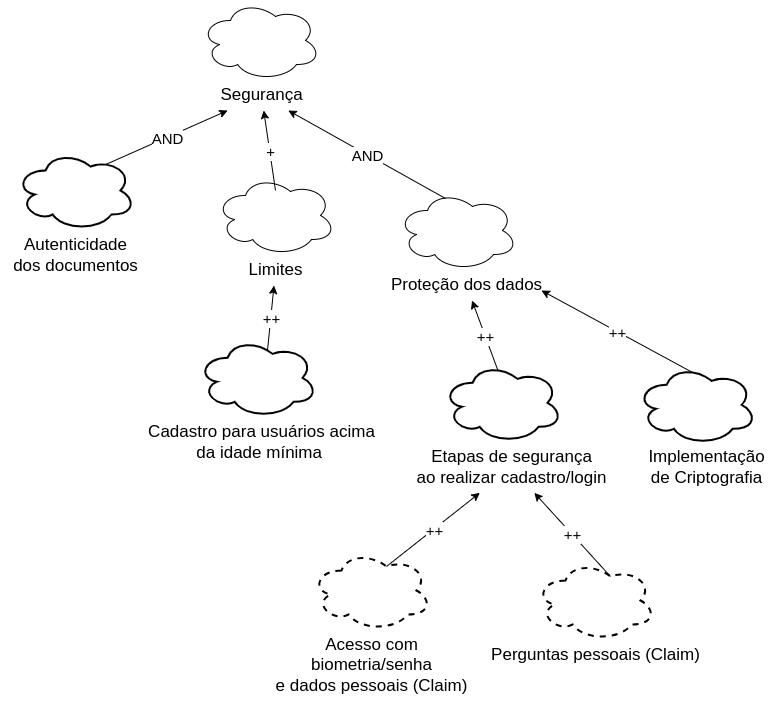
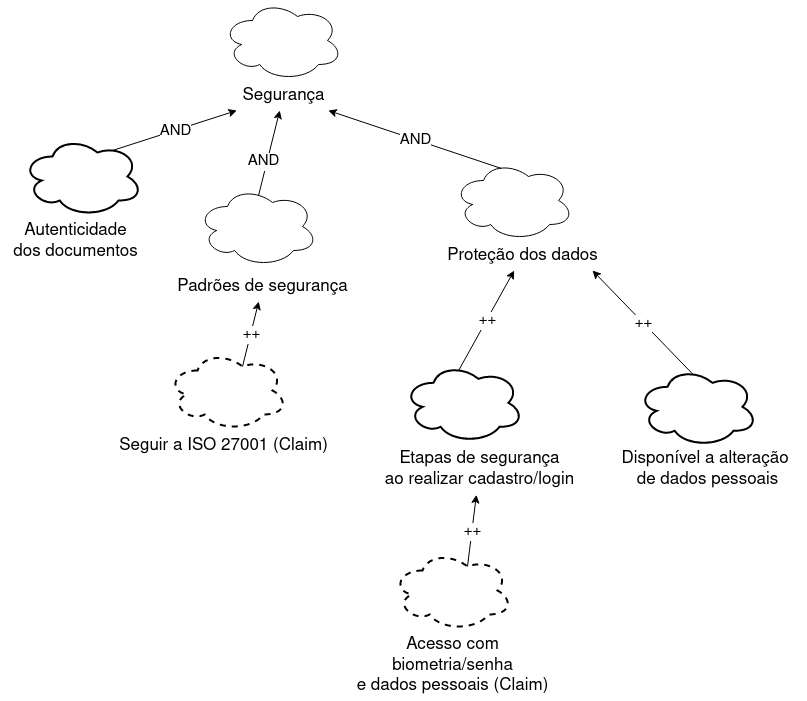
[FIX]: correcoes em nfr

diff --git a/docs/modelagem/agil/nfr.md b/docs/modelagem/agil/nfr.md
@@ -142,7 +142,28 @@ Fonte: Adaptado de (ROBERTSON; ROBERTSON, 2012).
 
 ## Metodologia
 
-Inicialmente foram selecionados os requisitos não funcionais já elicitados para que os softgoals principais sejam definidos, esses foram utilizados no NFR00 - Geral, e logo após foram criados os NFRs com base no geral, além dos impactos deles e no final de cada NFR foram criados os Cartões de especificação. No desenvolvimento dos NFRs envolveu a criação do gráfico de interdependência de softgoal conhecido como "Softgoal Interdependency Graph (SIG)" por meio da ferramenta Draw.io.
+Inicialmente foram selecionados os requisitos não funcionais já elicitados e presentes no artefato Especificação Suplementar, para que os softgoals principais sejam definidos, esses foram utilizados no NFR00 - Geral, e logo após foram criados os NFRs com base no geral, além dos impactos deles e no final foram criados os Cartões de especificação. No desenvolvimento dos NFRs envolveu a criação do gráfico de interdependência de softgoal conhecido como "Softgoal Interdependency Graph (SIG)" por meio da ferramenta Draw.io.
+
+## Requisitos Não-Funcionais utilizados
+
+
+<center>
+
+Tabela 9 - Requisitos Não-Funcionais 
+
+| ID | Descrição    | 
+| -- | --- | 
+| CONF01 |  Garantir 99,9% de disponibilidade de tempo, principalmente durante períodos eleitorais, evitando interrupções não programadas.| 
+| CONF02 | Implementar backups regulares e procedimentos de recuperação eficazes para evitar perda significativa de dados em falhas inesperadas. |
+| DES01 | Manter um tempo de resposta inferior a 2 segundos para interações do usuário, assegurando uma experiência ágil. |
+| SUP03 | No sistema deve haver um plano de suporte ao usuário para responder a dúvidas e problemas de forma eficaz. |
+| CONF03 | O aplicativo deve oferecer segurança ao usuário, com a proteção nos dados, utilizando etapas de segurança, como por exemplo: login por meio da biometria digital. | 
+| CONF04 | O usuário deve poder alterar os seus dados pessoais caso desejar. |
+| CONF05 | O aplicativo deve oferecer segurança ao usuário, em relação aos dados emitidos nos documentos, certificando e garantindo que estão corretos. |
+
+Fonte: BARBOSA, maria. 2023. 
+
+</center>
 
 ## NFRs Definidas
 
@@ -185,39 +206,58 @@ Fonte: Maria Eduarda Marques. 2023.
 ### NFR02 - Confiabilidade
 #### Sem impactos propagados
 
+<center>
+
 Figura 9 - SIG de Confiabilidade sem impactos.
 
 ![confGrafoSIG1](../../planejamento/img/confGrafoSIG1.png)
 
-Fonte: maria barbosa, 2023.
+Fonte: BARBOSA, maria. 2023.
+
+</center>
+
 
 #### Com impactos propagados
+
+<center>
 
 Figura 10 - SIG de Confiabilidade com impactos.
 
 ![confGrafoSIG2](../../planejamento/img/confGrafoSIG2.png)
 
-Fonte: maria barbosa, 2023.
+Fonte: BARBOSA, maria. 2023.
+
+</center>
 
 
 ### NFR03 - Segurança
 #### Sem impactos propagados
 
+<center>
+
 Figura 11 - SIG de Segurança sem impactos.
 
 ![seguGrafoSIG1](../../planejamento/img/seguGrafoSIG1.png)
 
-Fonte: maria barbosa, 2023.
+Fonte: BARBOSA, maria. 2023.
+
+</center>
 
 #### Com impactos propagados
+
+<center>
 
 Figura 12 - SIG de Segurança com impactos.
 
 ![seguGrafoSIG2](../../planejamento/img/seguGrafoSIG2.png)
 
-Fonte: maria barbosa, 2023.
+Fonte: BARBOSA, maria. 2023.
+
+</center>
 
 ## Cartões de especificação Definidos
+
+<center>
 
 Tabela 3 - Cartão de especificação da Usabilidade
 
@@ -234,6 +274,10 @@ Tabela 3 - Cartão de especificação da Usabilidade
 
 Fonte: Maria Eduarda Marques. 2023.
 
+</center>
+
+<center>
+
 Tabela 4 - Cartão de especificação da Usabilidade
 
 | **Nº Requisito: 2** (ENTNF2)  <br> **Classificação:** Usabilidade | |
@@ -249,79 +293,27 @@ Tabela 4 - Cartão de especificação da Usabilidade
 
 Fonte: Maria Eduarda Marques. 2023.
 
+</center>
+
+<center>
+
 Tabela 5 - Cartão de especificação de Confiabilidade 
 
-| **Nº Requisito: 3** ( [ENTNF1](https://github.com/Requisitos-de-Software/2023.2-e-Titulo/blob/main/docs/elicitacao/tecnicas/entrevista.md#requisitos-elicitados) )  <br> **Classificação:**  Confiabilidade/Guia/Tolerância a falhas/Informações de fácil acesso/Coletar feedback | |
+| **Nº Requisito: 3** (  )  <br> **Classificação:**   | |
 | ------------------------ | --------- |
-| **Descrição:** | O aplicativo deve oferecer o termo de uso de forma fácil de ser encontrado, além de explicar ao usuário a sua utilidade de modo a evitar problemas de entendimento a respeito de informações do aplicativo. |
-| **Justificativa:** | É importante pois fornece informações claras e acessíveis aos usuários, garantindo que eles compreendam os termos e condições do serviço, bem como os direitos e responsabilidades. Além disso, atende às expectativas de regulamentações de privacidade e proteção de dados, tornando o aplicativo mais confiável. |
-| **Origem:** | Projetista de Software |
-| **Critério de aceitação:** | A aceitação dos termos de uso  |
+| **Descrição:** |  |
+| **Justificativa:** | |
+| **Origem:** |  |
+| **Critério de aceitação:** | |
 | **Dependência:** | Nenhum |
-| **Prioridade:** | 10 |
+| **Prioridade:** |  |
 | **Conflitos:** | Nenhum |
-| **História:** | 06/11/2023 |
+| **História:** | /11/2023 |
 
-Fonte: maria barbosa, 2023.
+Fonte: BARBOSA, maria. 2023.
 
-Tabela 6 - Cartão de especificação de Segurança 
+</center>
 
-| **Nº Requisito: 4** ( [INTNF9](https://github.com/Requisitos-de-Software/2023.2-e-Titulo/blob/main/docs/elicitacao/tecnicas/introspeccao.md#requisitos-elicitados) )  <br> **Classificação:** Segurança/Autenticidade dos documentos | |
-| ------------------------ | --------- |
-| **Descrição:** | O aplicativo deve mostrar ao usuário as autenticidades de seus documento. |
-| **Justificativa:** | Mostrar ao usuário as autenticidades de seus documentos é justificada pela necessidade de promover a transparência, confiança e segurança no sistema. Isso permite que os usuários validem a autenticidade de seus documentos, evitando fraudes, falsificações e erros.  |
-| **Origem:** | Projetista de Software |
-| **Critério de aceitação:** | Deve ser possível acessar facilmente as autenticidades, e elas devem estar em conformidade com as regulamentações legais aplicáveis. |
-| **Dependência:** | Nenhum |
-| **Prioridade:** | 10 |
-| **Conflitos:** | Nenhum |
-| **História:** | 06/11/2023 |
-
-Fonte: maria barbosa, 2023.
-
-Tabela 7 - Cartão de especificação de Segurança  
-
-| **Nº Requisito: 5** ( [INTNF14](https://github.com/Requisitos-de-Software/2023.2-e-Titulo/blob/main/docs/elicitacao/tecnicas/introspeccao.md#requisitos-elicitados) )  <br> **Classificação:** Segurança/Proteção dos dados/Etapas de segurança ao realizar cadastro ou login/ Implementação de Criptografia | |
-| ------------------------ | --------- |
-| **Descrição:** | O aplicativo deve oferecer segurança ao usuário, com a proteção nos dados, utilizando etapas de segurança. |
-| **Justificativa:** | A utilização desse requisito é pela necessidade de proteger a privacidade e a integridade dos dados dos usuários. Isso não apenas atende às regulamentações legais, mas também previne ataques cibernéticos, vazamentos de dados e a perda de segurança dos usuários. |
-| **Origem:** | Projetista de Software |
-| **Critério de aceitação:** | O deve aplicativo implementar medidas de segurança eficazes para proteger os dados dos usuários. Isso inclui a criptografia adequada e autenticação segura. |
-| **Dependência:** | Nenhum |
-| **Prioridade:** | 10 |
-| **Conflitos:** | Nenhum |
-| **História:** | 06/11/2023 |
-
-Fonte: maria barbosa, 2023.
-
-Tabela 8 - Cartão de especificação de Segurança  
-
-| **Nº Requisito: 6** ( [BSNF1](https://github.com/Requisitos-de-Software/2023.2-e-Titulo/blob/main/docs/elicitacao/tecnicas/brainstorming.md#requisitos-elicitados) )  <br> **Classificação:** Segurança/Limites/Cadastro para usuários acima da idade mínima  | |
-| ------------------------ | --------- |
-| **Descrição:** | O aplicativo deve permitir apenas usuários acima de 16 anos, por serem aptos a votar. |
-| **Justificativa:** | A utilização desse requisito é para cumprir as leis e regulamentações que estabelecem a idade mínima para votar. Além disso, essa restrição contribui para a responsabilidade e a segurança, uma vez que impede que indivíduos não aptos a votar influenciem o processo eleitoral. |
-| **Origem:** | Projetista de Software |
-| **Critério de aceitação:** | A verificação da idade do usuário durante o cadastro no aplicativo |
-| **Dependência:** | Nenhum |
-| **Prioridade:** | 10 |
-| **Conflitos:** | Nenhum |
-| **História:** | 06/11/2023 |
-
-Fonte: maria barbosa, 2023.
-
-
-## Requisitos Não-Funcionais utilizados
-
-Tabela 9 - Requisitos Não-Funcionais 
-
-| ID | Descrição    | Implementado |
-| -- | --- | --- |
-| ENTNF1 | O aplicativo deve oferecer o termo de uso de forma fácil de ser encontrado, além de explicar ao usuário a sua utilidade de modo a evitar problemas de entendimento a respeito de informações do aplicativo | Não |
-| INTN9 | O aplicativo deve mostrar ao usuário as autenticidades de seus documento. | Sim |
-| INT14 | O aplicativo deve oferecer segurança ao usuário, com a proteção nos dados, utilizando etapas de segurança. | Sim |
-| BSNF1  | O aplicativo deve permitir apenas usuários acima de 16 anos, por serem aptos a votar | Sim  |
-
-Fonte: maria barbosa, 2023.
 
 ## Bibliografia
 
@@ -336,11 +328,12 @@ Fonte: maria barbosa, 2023.
 
 | Versão |     Data    | Descrição   | Autor(es) | Revisor(es) |
 | ------ | ----------- | ----------- | --------- | ----------- |
-| `0.1`  | 03/11/2023  | adição do esqueleto do artefato | [Maria Barbosa](https//github.com/Madu01) | [João Victor](https//github.com/jvcostta) e [Mateus Orlando](https//github.com/MateusPy) |
-| `0.2`  | 04/11/2023  | adição do conteúdo no tópico Motivação e Objetivo e melhoramento do esqueleto do artefato | [Maria Barbosa](https//github.com/Madu01) | [João Victor](https//github.com/jvcostta) e [Mateus Orlando](https//github.com/MateusPy) |
-| `0.3`  | 05/11/2023  | adição da introdução e do SIG | [Maria Marques ](https//github.com/EduardaSMarques) | [João Victor](https//github.com/jvcostta) e [Mateus Orlando](https//github.com/MateusPy) |
-| `0.4`  | 06/11/2023  | acrescentando outros tópicos do SIG até refinamentos | [Maria Marques ](https//github.com/EduardaSMarques) | [João Victor](https//github.com/jvcostta) e [Mateus Orlando](https//github.com/MateusPy) |
-| `0.5`  | 06/11/2023  | Adicionando conteúdos nos tópicos Contribuições, Procedimento de avaliação, Cartão de especificação e Metodologia e atualização no tópico NFR Definidas | [Maria Barbosa](https//github.com/Madu01) | [João Victor](https//github.com/jvcostta) e [Mateus Orlando](https//github.com/MateusPy) |
-| `0.6`  | 06/11/2023  | Adicionando diagramas geral e de usabilidade e cartões | [Maria Marques ](https//github.com/EduardaSMarques)  | [João Victor](https//github.com/jvcostta) e [Mateus Orlando](https//github.com/MateusPy) |
-| `0.7`  | 06/11/2023  | Adicionando conteúdos nos tópicos contidos nos NFRs de Confiabilidade e segurança além do tópico de requisitos utilizados | [Maria Barbosa](https//github.com/Madu01) | [João Victor](https//github.com/jvcostta) e [Mateus Orlando](https//github.com/MateusPy) |
-| `0.8`  | 06/11/2023  | Arrumando rotas das imagens | [Mateus Orlando](https//github.com/MateusPy) e [João Victor](https//github.com/jvcostta) | - |
+| 1.0  | 03/11/2023  | adição do esqueleto do artefato | [Maria Barbosa](https//github.com/Madu01) | [João Victor](https//github.com/jvcostta) e [Mateus Orlando](https//github.com/MateusPy) |
+| 1.1  | 04/11/2023  | adição do conteúdo no tópico Motivação e Objetivo e melhoramento do esqueleto do artefato | [Maria Barbosa](https//github.com/Madu01) | [João Victor](https//github.com/jvcostta) e [Mateus Orlando](https//github.com/MateusPy) |
+| 1.2  | 05/11/2023  | adição da introdução e do SIG | [Maria Marques ](https//github.com/EduardaSMarques) | [João Victor](https//github.com/jvcostta) e [Mateus Orlando](https//github.com/MateusPy) |
+| 1.3  | 06/11/2023  | acrescentando outros tópicos do SIG até refinamentos | [Maria Marques ](https//github.com/EduardaSMarques) | [João Victor](https//github.com/jvcostta) e [Mateus Orlando](https//github.com/MateusPy) |
+| 1.4  | 06/11/2023  | Adicionando conteúdos nos tópicos Contribuições, Procedimento de avaliação, Cartão de especificação e Metodologia e atualização no tópico NFR Definidas | [Maria Barbosa](https//github.com/Madu01) | [João Victor](https//github.com/jvcostta) e [Mateus Orlando](https//github.com/MateusPy) |
+| 1.5  | 06/11/2023  | Adicionando diagramas geral e de usabilidade e cartões | [Maria Marques ](https//github.com/EduardaSMarques)  | [João Victor](https//github.com/jvcostta) e [Mateus Orlando](https//github.com/MateusPy) |
+| 1.6  | 06/11/2023  | Adicionando conteúdos nos tópicos contidos nos NFRs de Confiabilidade e segurança além do tópico de requisitos utilizados | [Maria Barbosa](https//github.com/Madu01) | [João Victor](https//github.com/jvcostta) e [Mateus Orlando](https//github.com/MateusPy) |
+| 1.7  | 06/11/2023  | Arrumando rotas das imagens | [Mateus Orlando](https//github.com/MateusPy) e [João Victor](https//github.com/jvcostta) | [Esther Sena](https://github.com/esmsena) |
+| 1.8 | 30/11/2023 | Correção em metodologia, adicionando novas imagens em NFR02(sem impactos) e NFR03(sem impactos e com impactos), atualização em requisitos não funcionais utilizados |  [Maria Barbosa](https://github.com/Madu01)  | [João Costa ](https://github.com/jvcostta) |
